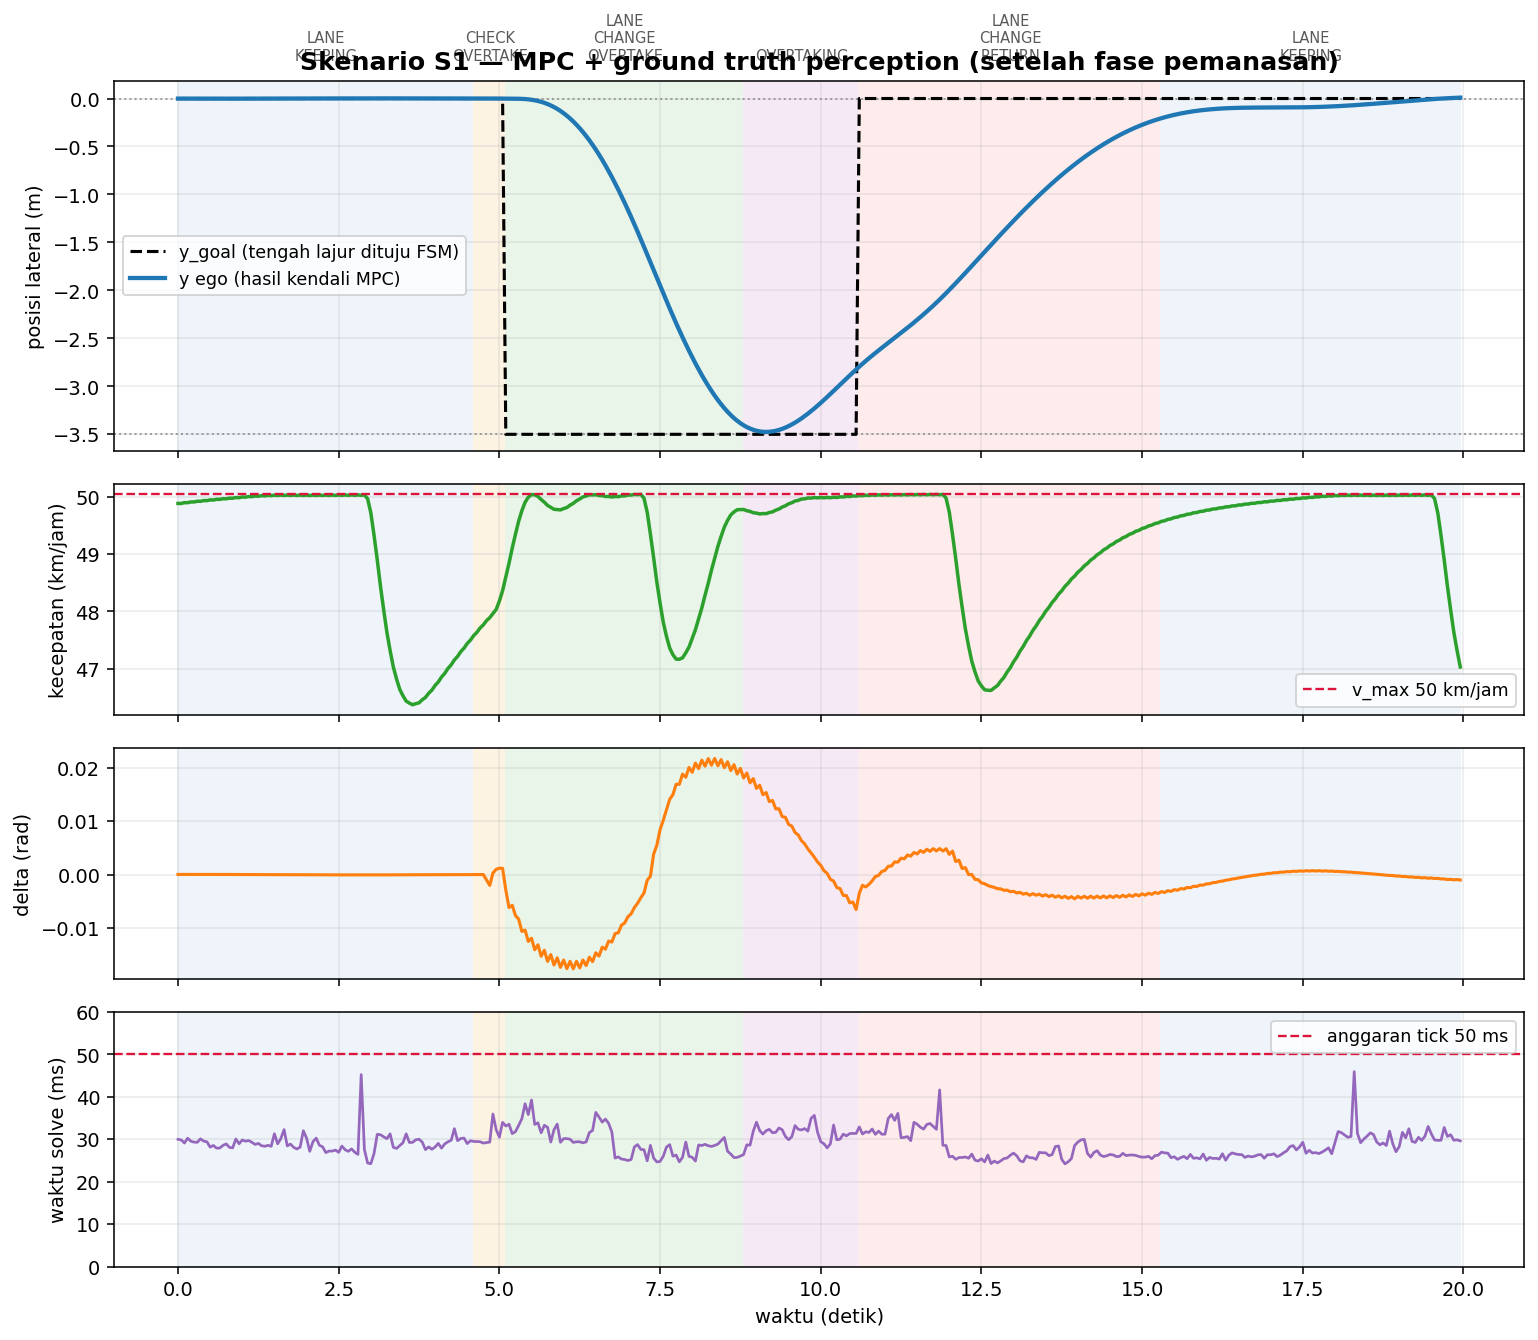
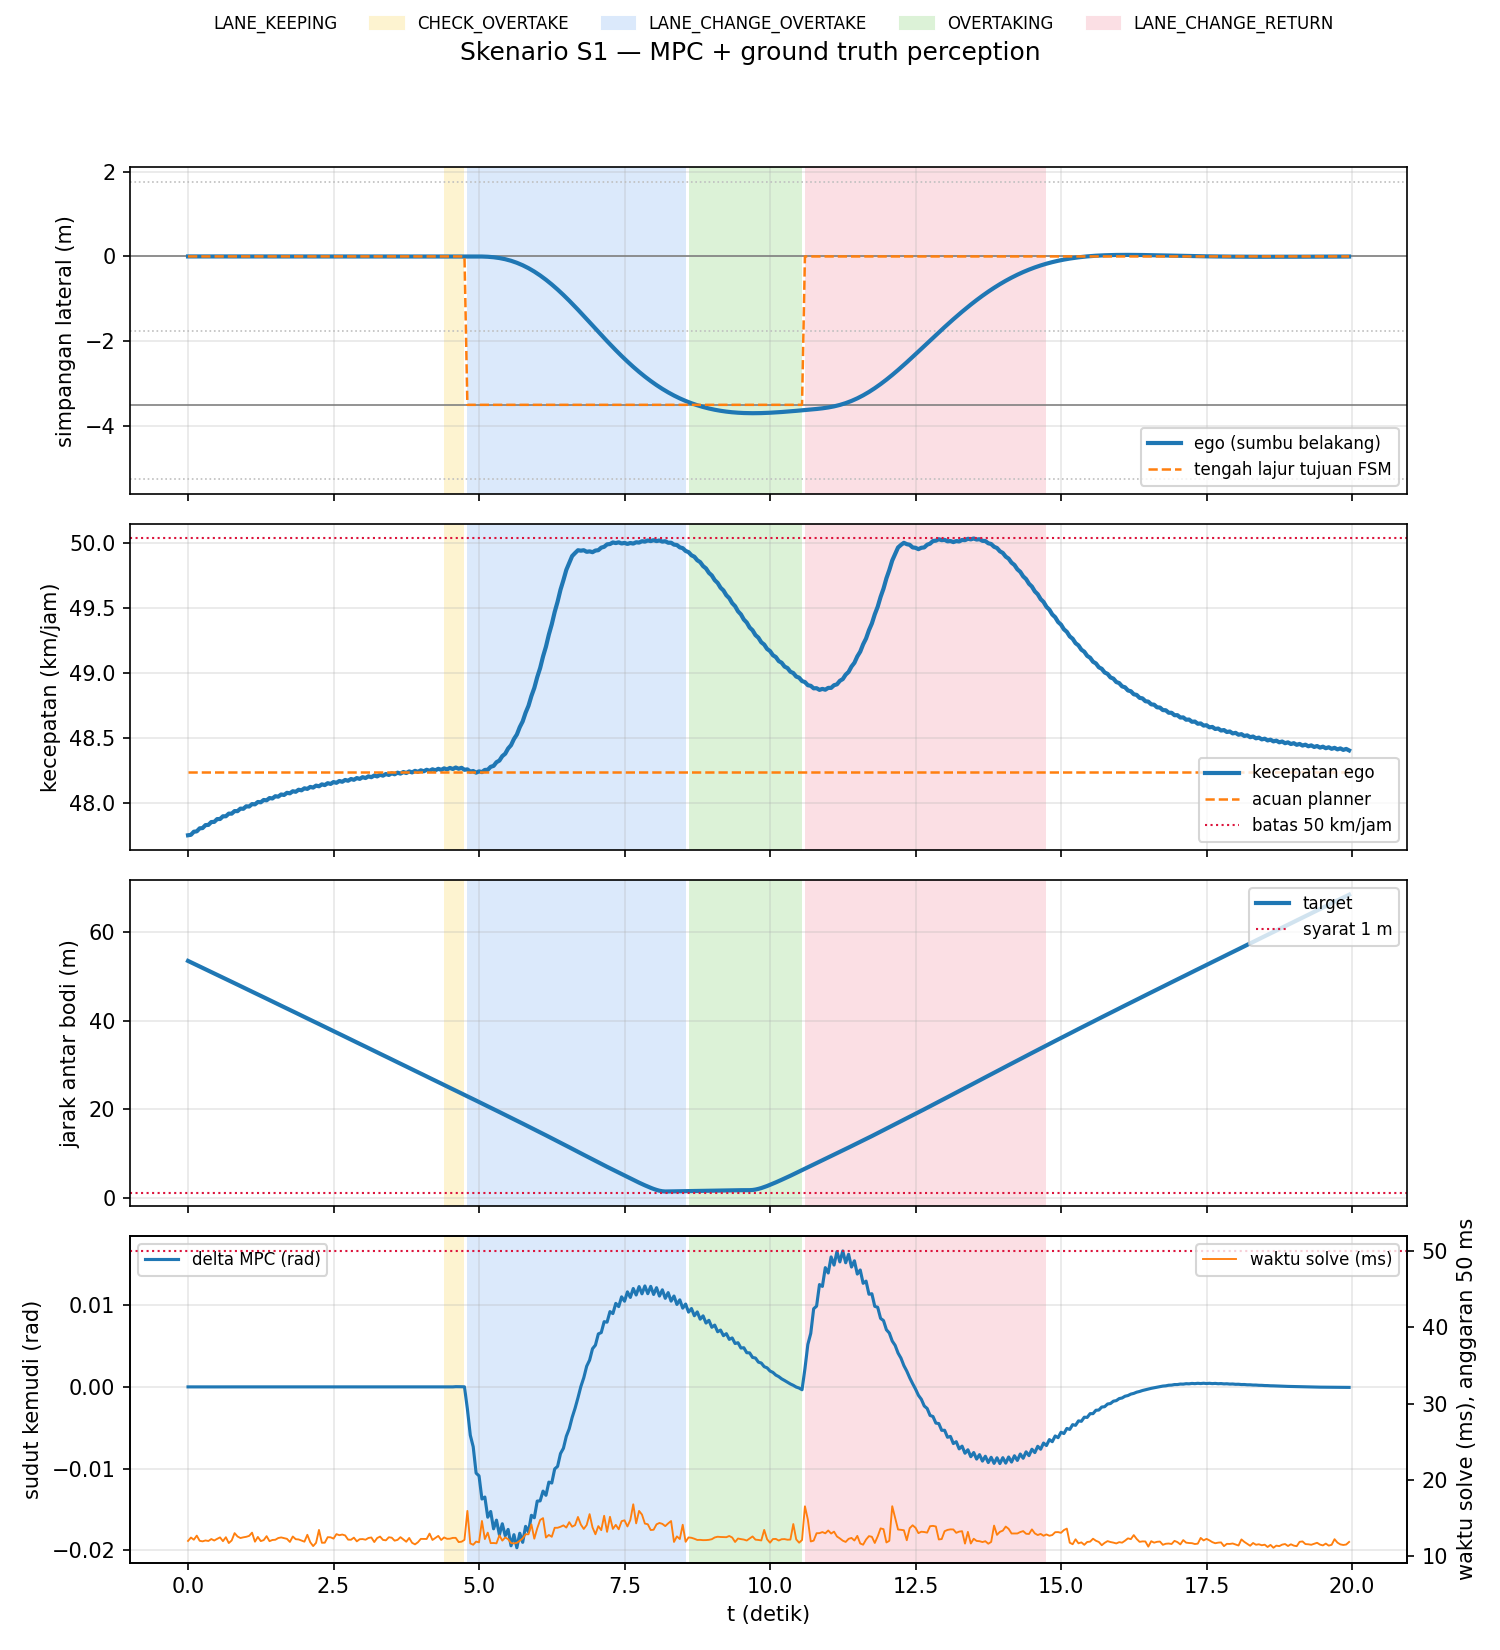
feat: add plot_run.py and regenerate closed-loop run figures

diff --git a/plot_run.py b/plot_run.py
@@ -1,0 +1,91 @@
+"""Grafik hasil satu run tertutup, untuk bab 4 (rencana kerja bagian 11.6).
+
+Dibaca dari log mentah supaya tidak perlu menjalankan ulang simulasi.
+
+    python plot_run.py                     # out/run_s1_mpc_gt.npz -> out/run_s1_mpc.png
+    python plot_run.py --skenario S3
+"""
+import argparse
+import os
+
+import matplotlib
+matplotlib.use('Agg')
+import matplotlib.pyplot as plt
+import numpy as np
+
+import config
+import evaluation
+
+# Latar tiap panel diwarnai menurut state FSM: satu gambar cukup untuk membaca
+# kapan tiap fase terjadi, tanpa menaruh garis vertikal di semua panel.
+WARNA = {'LANE_KEEPING': '#ffffff', 'CHECK_OVERTAKE': '#fdf3d0',
+         'LANE_CHANGE_OVERTAKE': '#dbe9fb', 'OVERTAKING': '#dcf2d7',
+         'LANE_CHANGE_RETURN': '#fbdfe4'}
+
+
+def latar_state(ax, t, st):
+    awal = 0
+    for i in range(1, len(st) + 1):
+        if i == len(st) or st[i] != st[awal]:
+            ax.axvspan(t[awal], t[i - 1], color=WARNA.get(st[awal], '#eeeeee'), lw=0, zorder=0)
+            awal = i
+
+
+def main():
+    ap = argparse.ArgumentParser()
+    ap.add_argument('--skenario', default='S1', choices=list(config.SKENARIO))
+    args = ap.parse_args()
+    sk = args.skenario.lower()
+
+    f = np.load(os.path.join(config.OUT_DIR, f'run_{sk}_mpc_gt.npz'))
+    L, st, pos = f['log'], f['fsm_state'], f['posisi_kendaraan']
+    k = {nama: i for i, nama in enumerate(f['kolom'])}
+    t, y, yaw = L[:, 0], L[:, k['y']], L[:, k['yaw']]
+    xc = L[:, k['x']] + config.SUMBU_KE_PUSAT * np.cos(yaw)
+    yc = y + config.SUMBU_KE_PUSAT * np.sin(yaw)
+
+    fig, ax = plt.subplots(4, 1, figsize=(10, 11), sharex=True)
+    for a in ax:
+        latar_state(a, t, st)
+        a.grid(alpha=.3)
+
+    ax[0].axhline(0, color='0.5', lw=.8)
+    ax[0].axhline(config.SIDE_SIGN * config.LANE_WIDTH, color='0.5', lw=.8)
+    for tepi in (0.5, -0.5, -1.5):
+        ax[0].axhline(tepi * config.LANE_WIDTH, color='0.75', ls=':', lw=.8)
+    ax[0].plot(t, y, lw=2, label='ego (sumbu belakang)')
+    ax[0].plot(t, L[:, k['y_goal']], '--', lw=1.2, label='tengah lajur tujuan FSM')
+    ax[0].set_ylabel('simpangan lateral (m)'); ax[0].legend(loc='lower right', fontsize=8)
+
+    ax[1].plot(t, L[:, k['v']] * 3.6, lw=2, label='kecepatan ego')
+    ax[1].plot(t, L[:, k['v_goal']] * 3.6, '--', lw=1.2, label='acuan planner')
+    ax[1].axhline(config.V_MAX * 3.6, color='crimson', ls=':', lw=1, label='batas 50 km/jam')
+    ax[1].set_ylabel('kecepatan (km/jam)'); ax[1].legend(loc='lower right', fontsize=8)
+
+    for i in range(pos.shape[1]):
+        d = evaluation.jarak_kotak(pos[:, i, 0] - xc, pos[:, i, 1] - yc,
+                                   f['dim_ego'], f['dim_kendaraan'][i], yaw, pos[:, i, 2])
+        ax[2].plot(t, d, lw=2, label='target' if i == 0 else f'kendaraan {i + 1}')
+    ax[2].axhline(config.JARAK_AMAN, color='crimson', ls=':', lw=1,
+                  label=f'syarat {config.JARAK_AMAN:.0f} m')
+    ax[2].set_ylabel('jarak antar bodi (m)'); ax[2].legend(loc='upper right', fontsize=8)
+
+    ax[3].plot(t, L[:, k['delta_cmd']], lw=1.5, label='delta MPC (rad)')
+    ax3b = ax[3].twinx()
+    ax3b.plot(t, L[:, k['solve_ms']], color='tab:orange', lw=.9, label='waktu solve (ms)')
+    ax3b.axhline(config.FIXED_DELTA_SECONDS * 1e3, color='crimson', ls=':', lw=1)
+    ax3b.set_ylabel('waktu solve (ms), anggaran 50 ms')
+    ax[3].set_ylabel('sudut kemudi (rad)'); ax[3].set_xlabel('t (detik)')
+    ax[3].legend(loc='upper left', fontsize=8); ax3b.legend(loc='upper right', fontsize=8)
+
+    fig.legend(handles=[plt.Rectangle((0, 0), 1, 1, color=w) for w in WARNA.values()],
+               labels=list(WARNA), loc='upper center', ncol=5, fontsize=8, frameon=False)
+    fig.suptitle(f'Skenario {args.skenario} — MPC + ground truth perception', y=0.975)
+    fig.tight_layout(rect=(0, 0, 1, 0.945))
+    keluar = os.path.join(config.OUT_DIR, f'run_{sk}_mpc.png')
+    fig.savefig(keluar, dpi=150)
+    print(f'Grafik: {keluar}')
+
+
+if __name__ == '__main__':
+    main()
